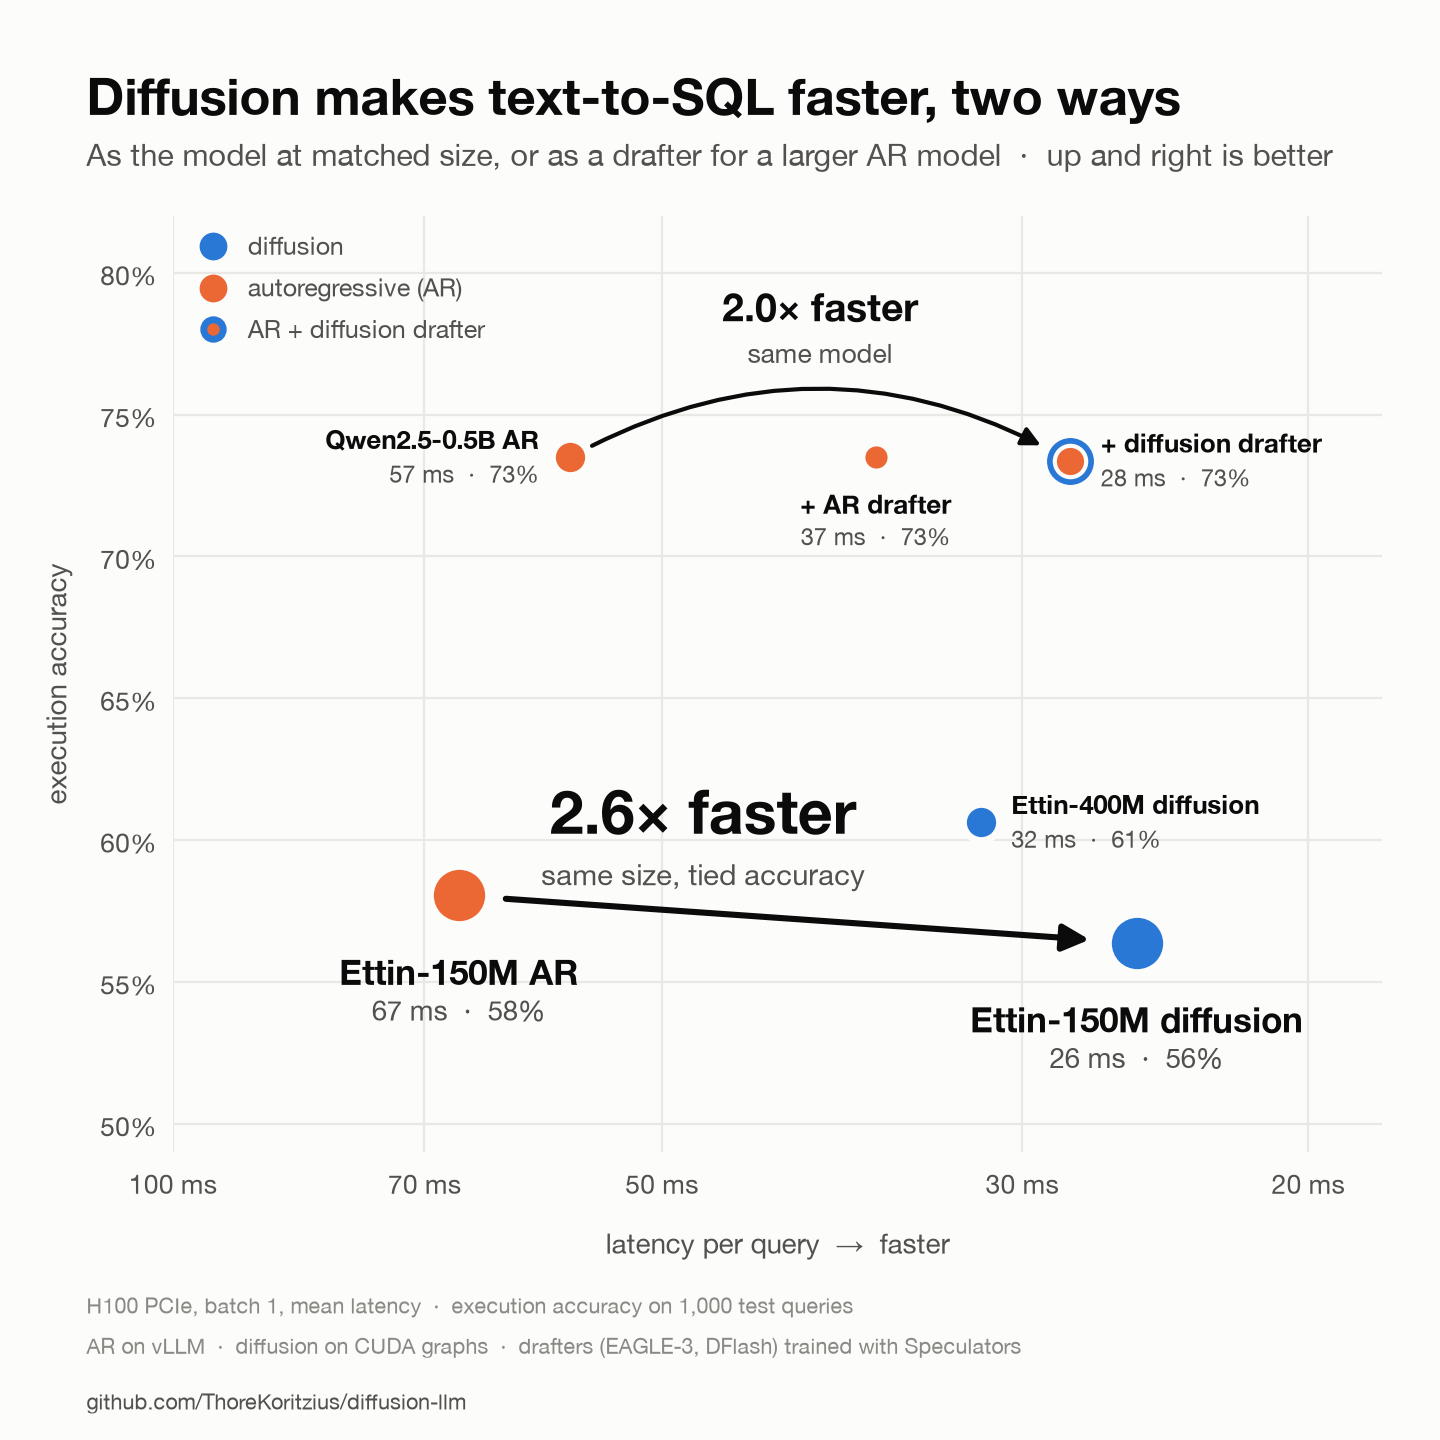
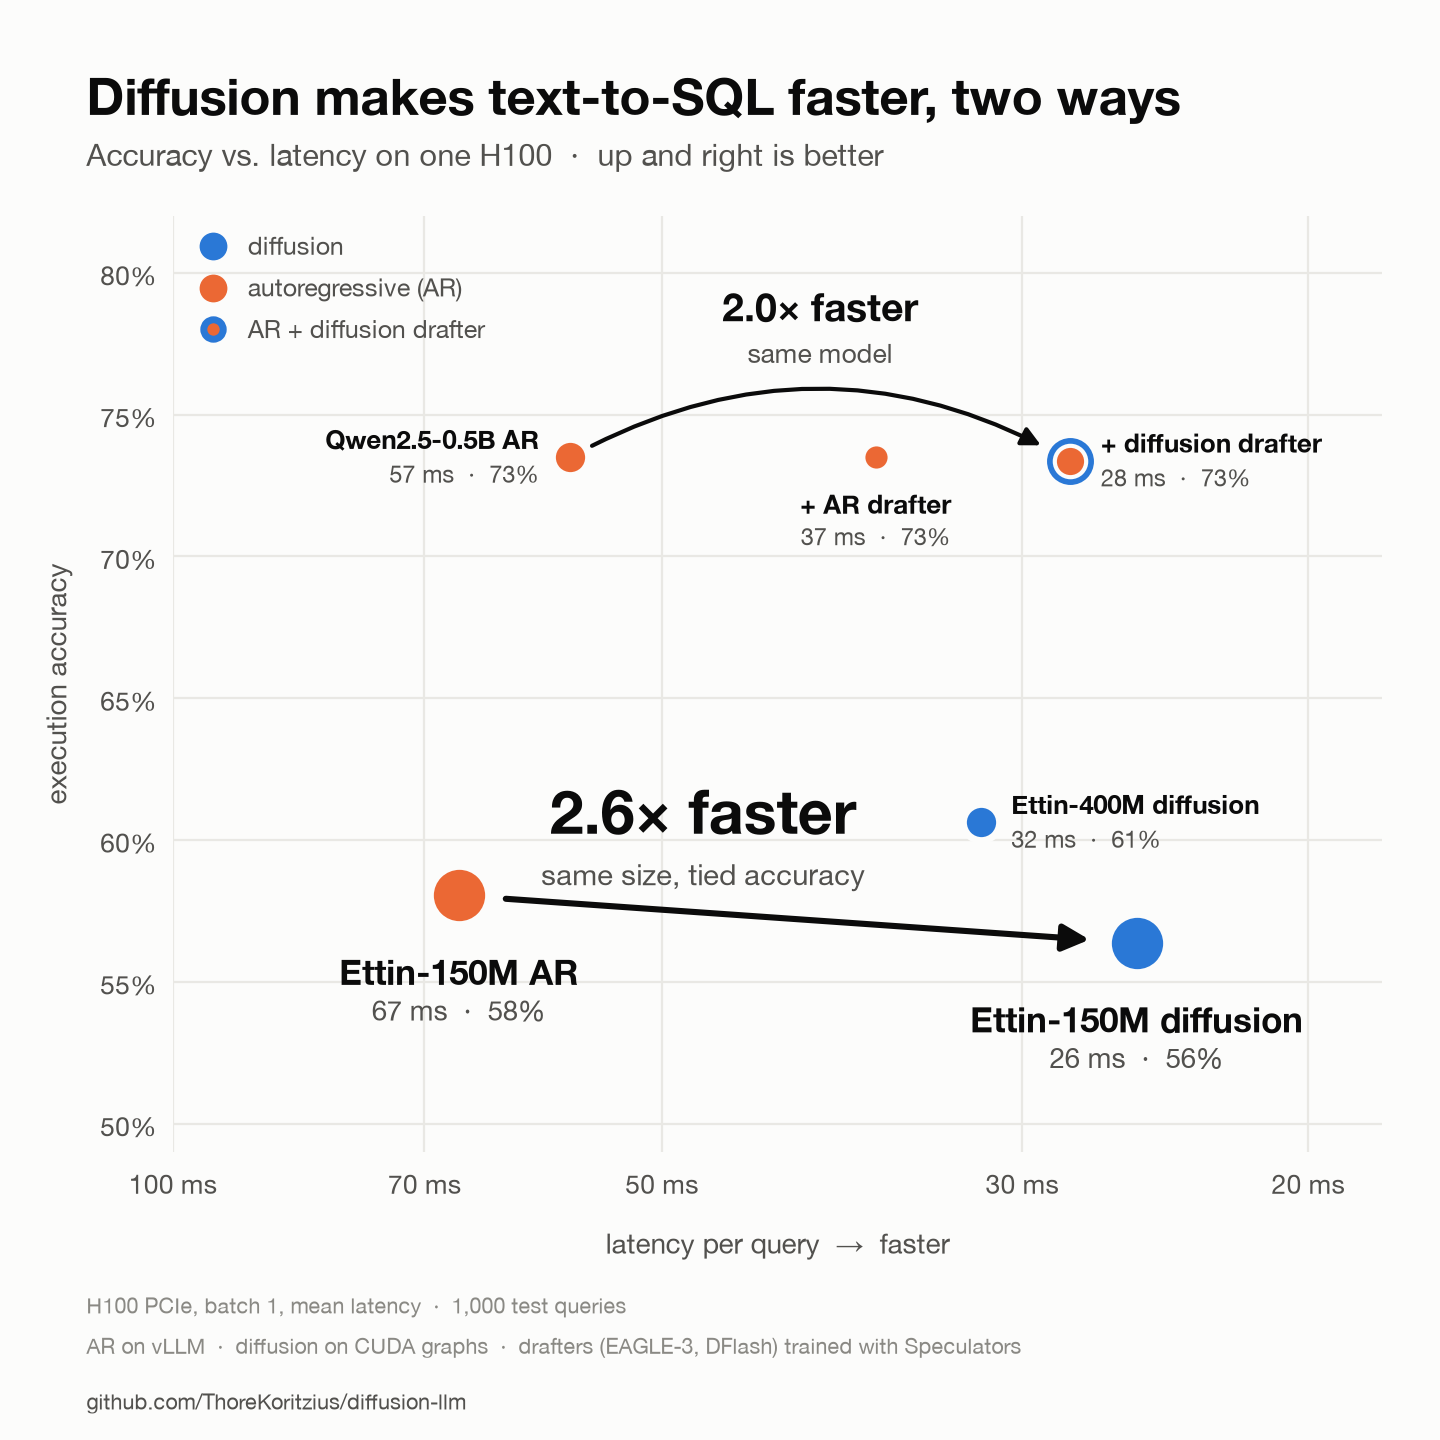
hero chart: subtitle as a reading guide
Claude-Session: https://claude.ai/code/session_01G6Bm8s1uyizXtz9t5ZCZAw

diff --git a/experiments/2026-10-14_gpu-session-2/make_hero.py b/experiments/2026-10-14_gpu-session-2/make_hero.py
@@ -127,9 +127,9 @@ def main():
 
     fig.text(LEFT_X, 0.955, "Diffusion makes text-to-SQL faster, two ways", fontsize=18.5, fontweight="bold",
              color=INK, va="top")
-    fig.text(LEFT_X, 0.905, "As the model at matched size, or as a drafter for a larger AR model  ·  up and right is better",
+    fig.text(LEFT_X, 0.905, "Accuracy vs. latency on one H100  ·  up and right is better",
              fontsize=11, color=INK_2, va="top")
-    fig.text(LEFT_X, 0.05, "H100 PCIe, batch 1, mean latency  ·  execution accuracy on 1,000 test queries\n"
+    fig.text(LEFT_X, 0.05, "H100 PCIe, batch 1, mean latency  ·  1,000 test queries\n"
              "AR on vLLM  ·  diffusion on CUDA graphs  ·  drafters (EAGLE-3, DFlash) trained with Speculators", fontsize=7.8, color=MUTED,
              va="bottom", linespacing=1.6)
     fig.text(LEFT_X, 0.018, REPO, fontsize=7.8, color=INK_2, va="bottom")
